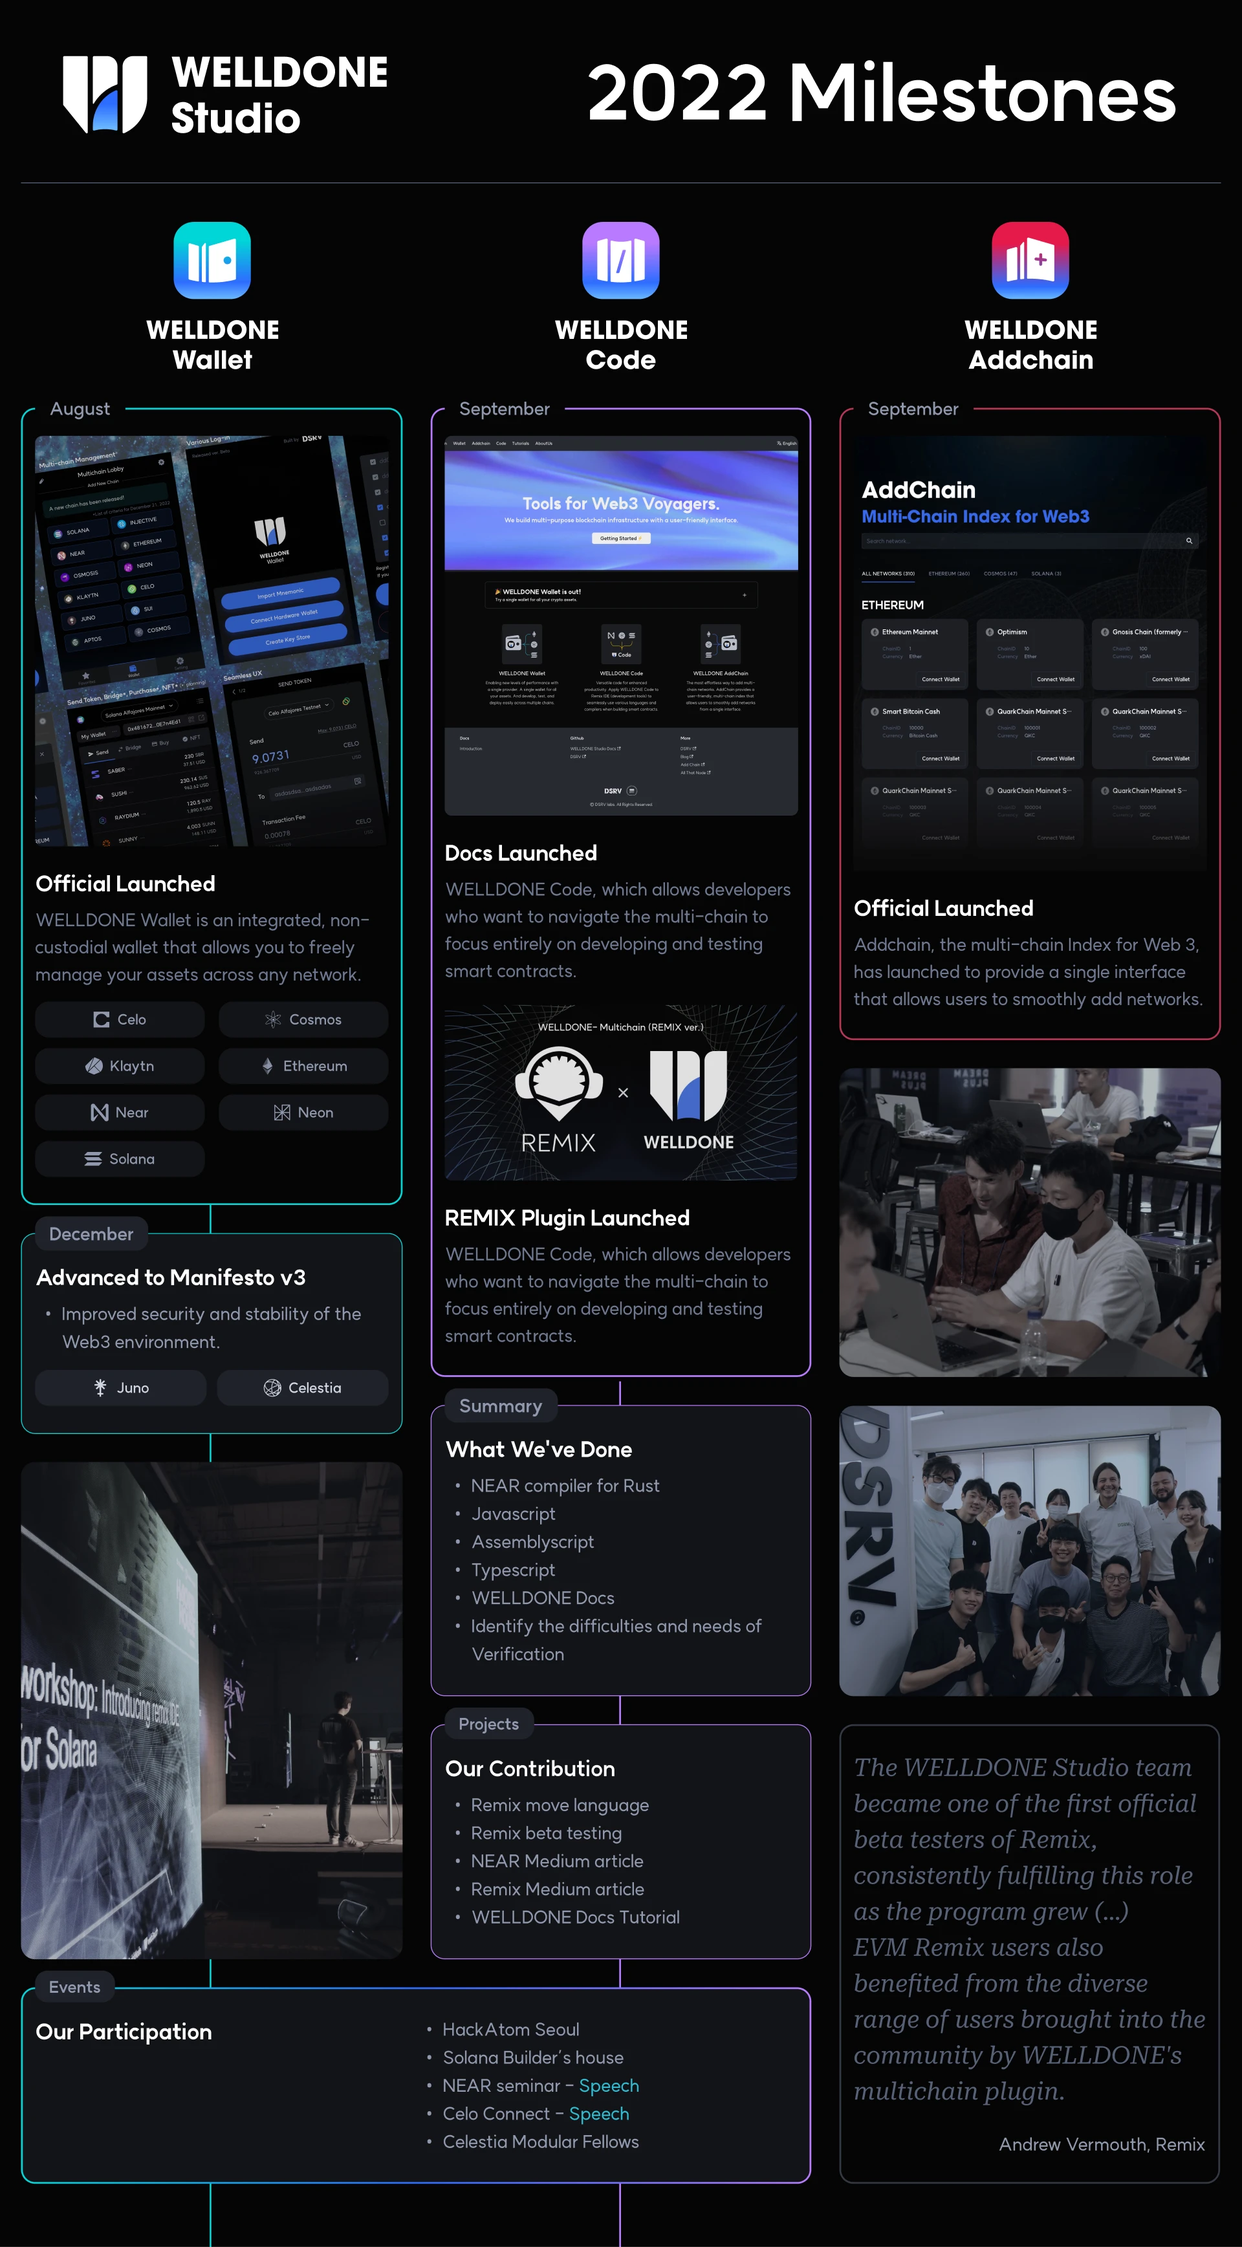
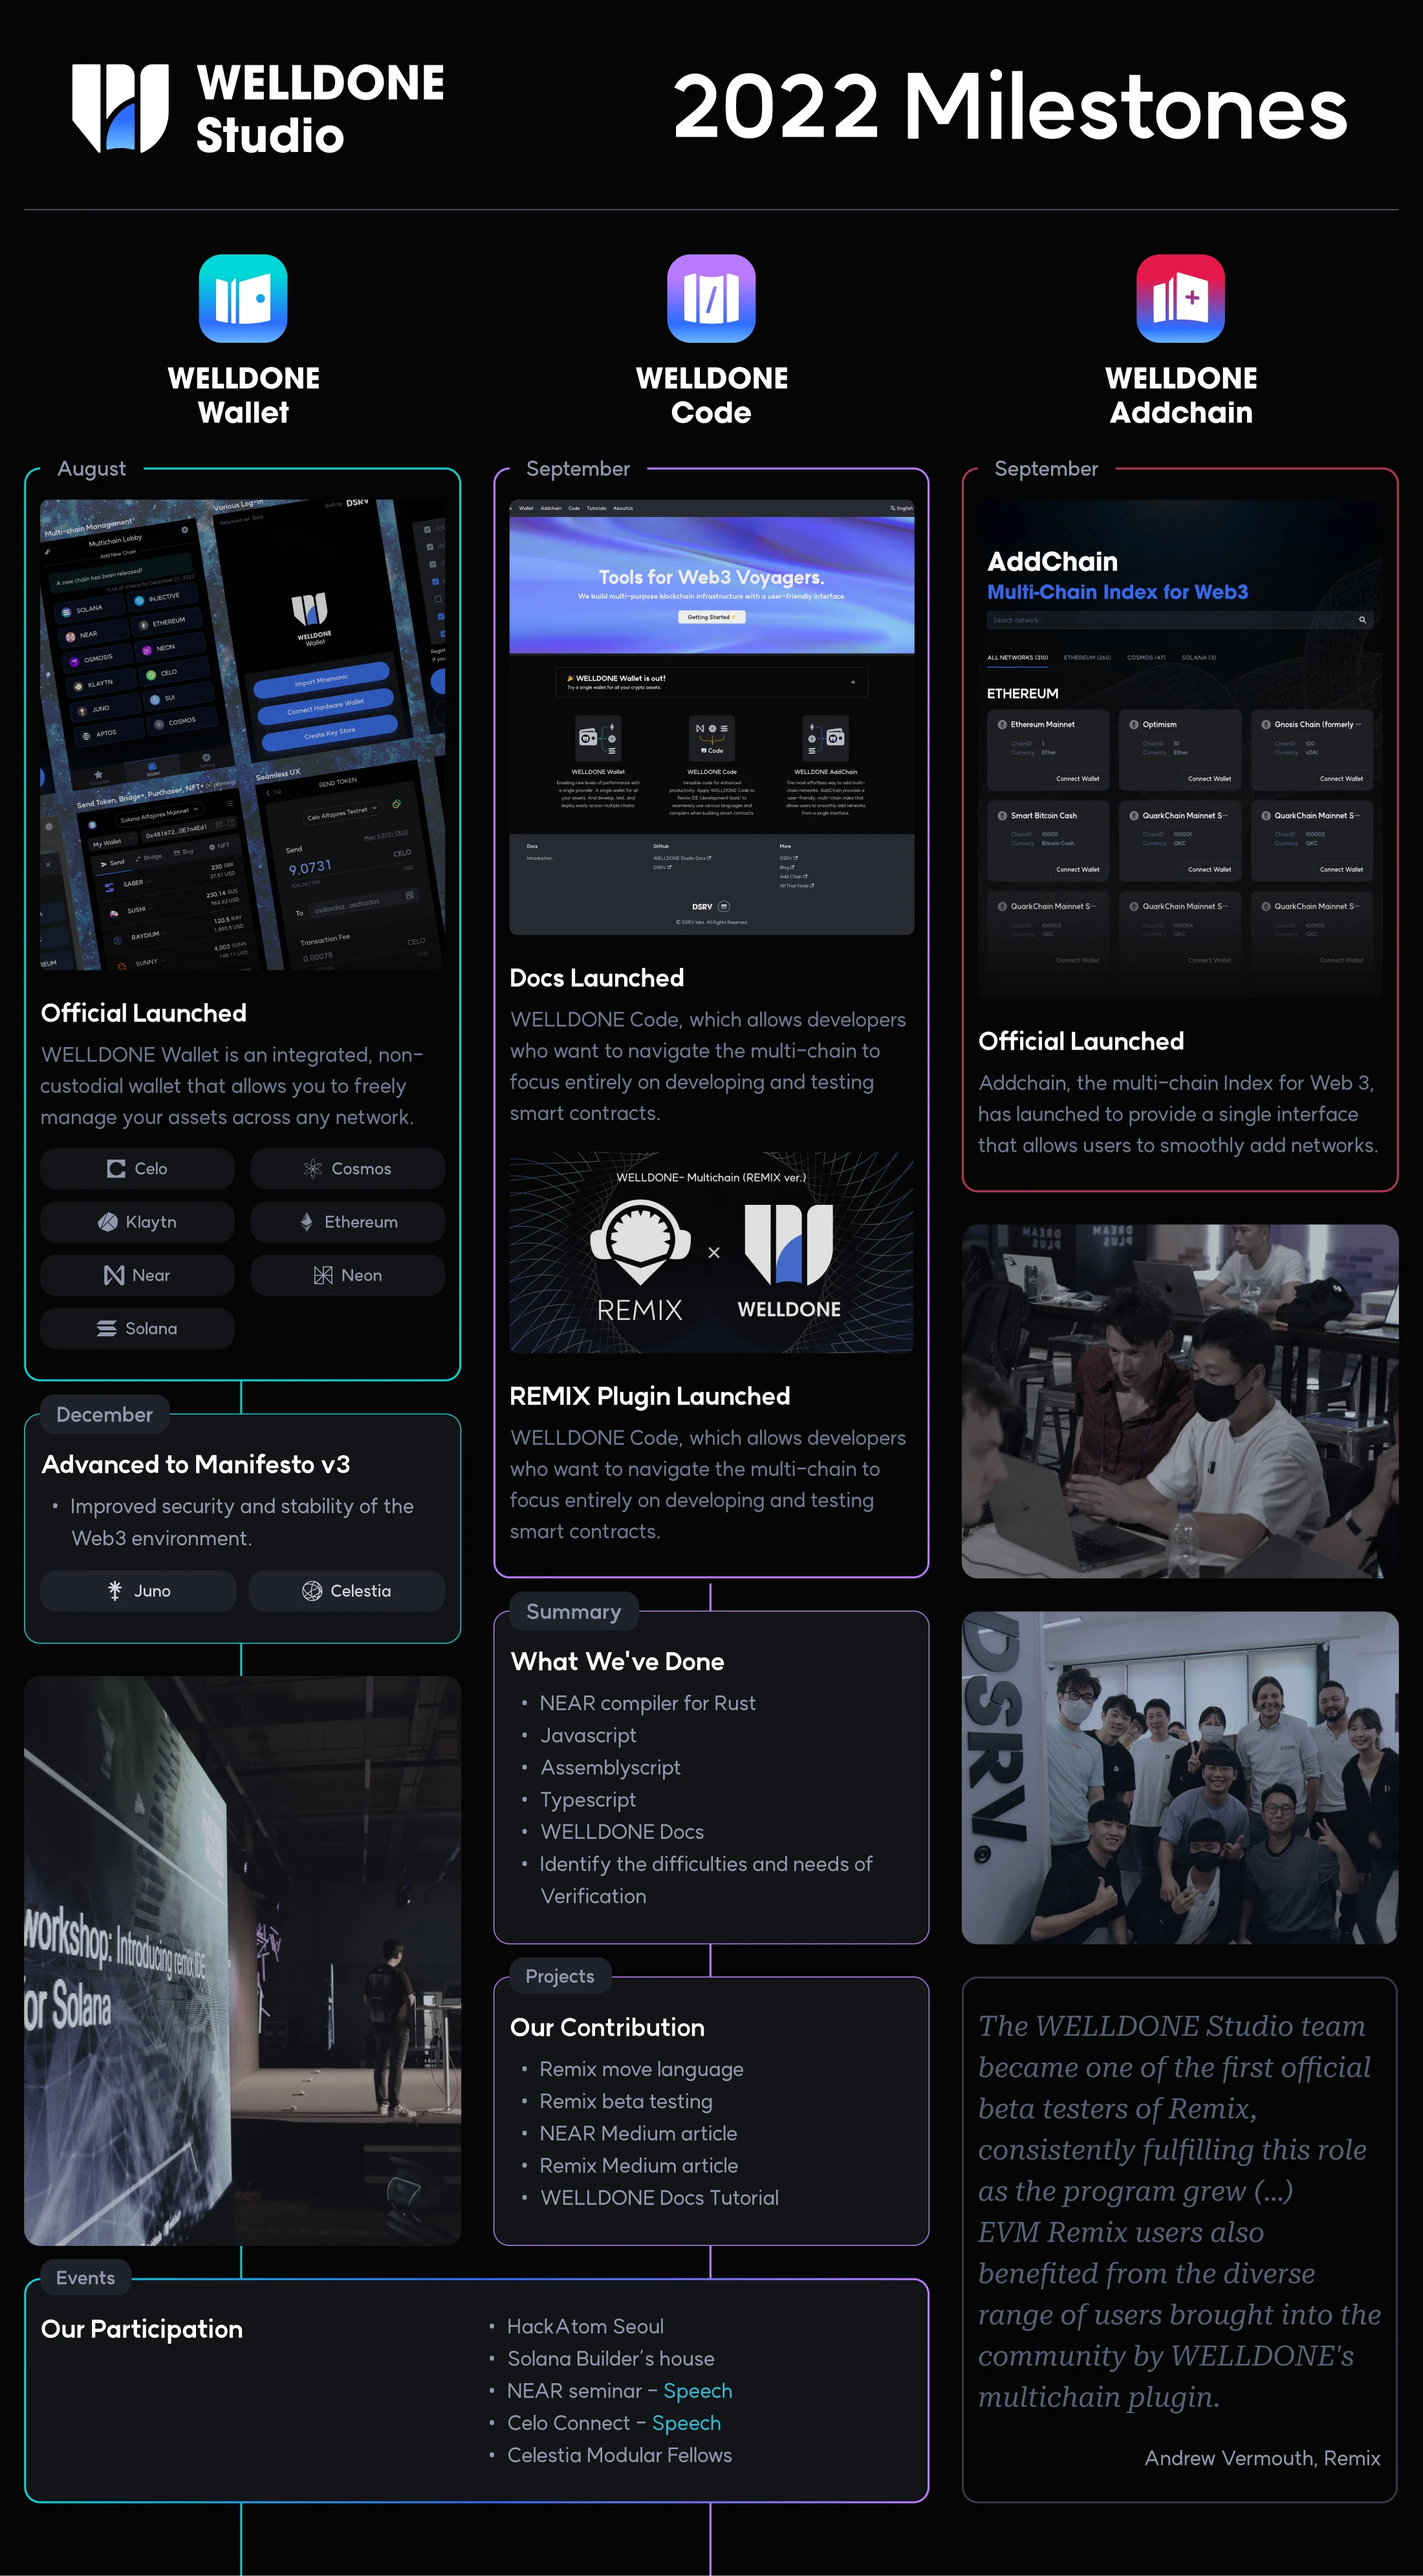
update about us

diff --git a/src/components/AboutUs/roadmap.tsx b/src/components/AboutUs/roadmap.tsx
@@ -2,7 +2,7 @@ import React from 'react';
 import { Box, Tab, Tabs } from '@mui/material';
 
 export default function Roadmap() {
-  const [milestone, setMileStone] = React.useState<number>(1);
+  const [milestone, setMileStone] = React.useState<number>(2);
 
   return (
     <Box>
@@ -11,6 +11,7 @@ export default function Roadmap() {
       >
         <Tab label="2022" style={{ fontFamily: 'SUIT', fontWeight: '800', fontSize: '1.5rem'}} />
         <Tab label="2023" style={{ fontFamily: 'SUIT', fontWeight: '800', fontSize: '1.5rem'}} />
+        <Tab label="2024" style={{ fontFamily: 'SUIT', fontWeight: '800', fontSize: '1.5rem'}} />
       </Tabs>
       {milestone === 0 && (
         <div
@@ -18,7 +19,7 @@ export default function Roadmap() {
             backgroundImage: `url('/img/aboutus_roadmap_2022.webp')`,
             backgroundSize: 'cover',
             width: '100%',
-            aspectRatio: '1920/3474'
+            aspectRatio: '3200/3981'
           }}
         />
       )}
@@ -28,7 +29,17 @@ export default function Roadmap() {
               backgroundImage: `url('/img/aboutus_roadmap_2023.webp')`,
               backgroundSize: 'cover',
               width: '100%',
-              aspectRatio: '1920/5565'
+              aspectRatio: '2200/6376'
+          }}
+        />      
+      )}
+      {milestone === 2 && (
+        <div
+          style={{
+              backgroundImage: `url('/img/aboutus_roadmap_2024.webp')`,
+              backgroundSize: 'cover',
+              width: '100%',
+              aspectRatio: '2000/3490'
           }}
         />      
       )}
